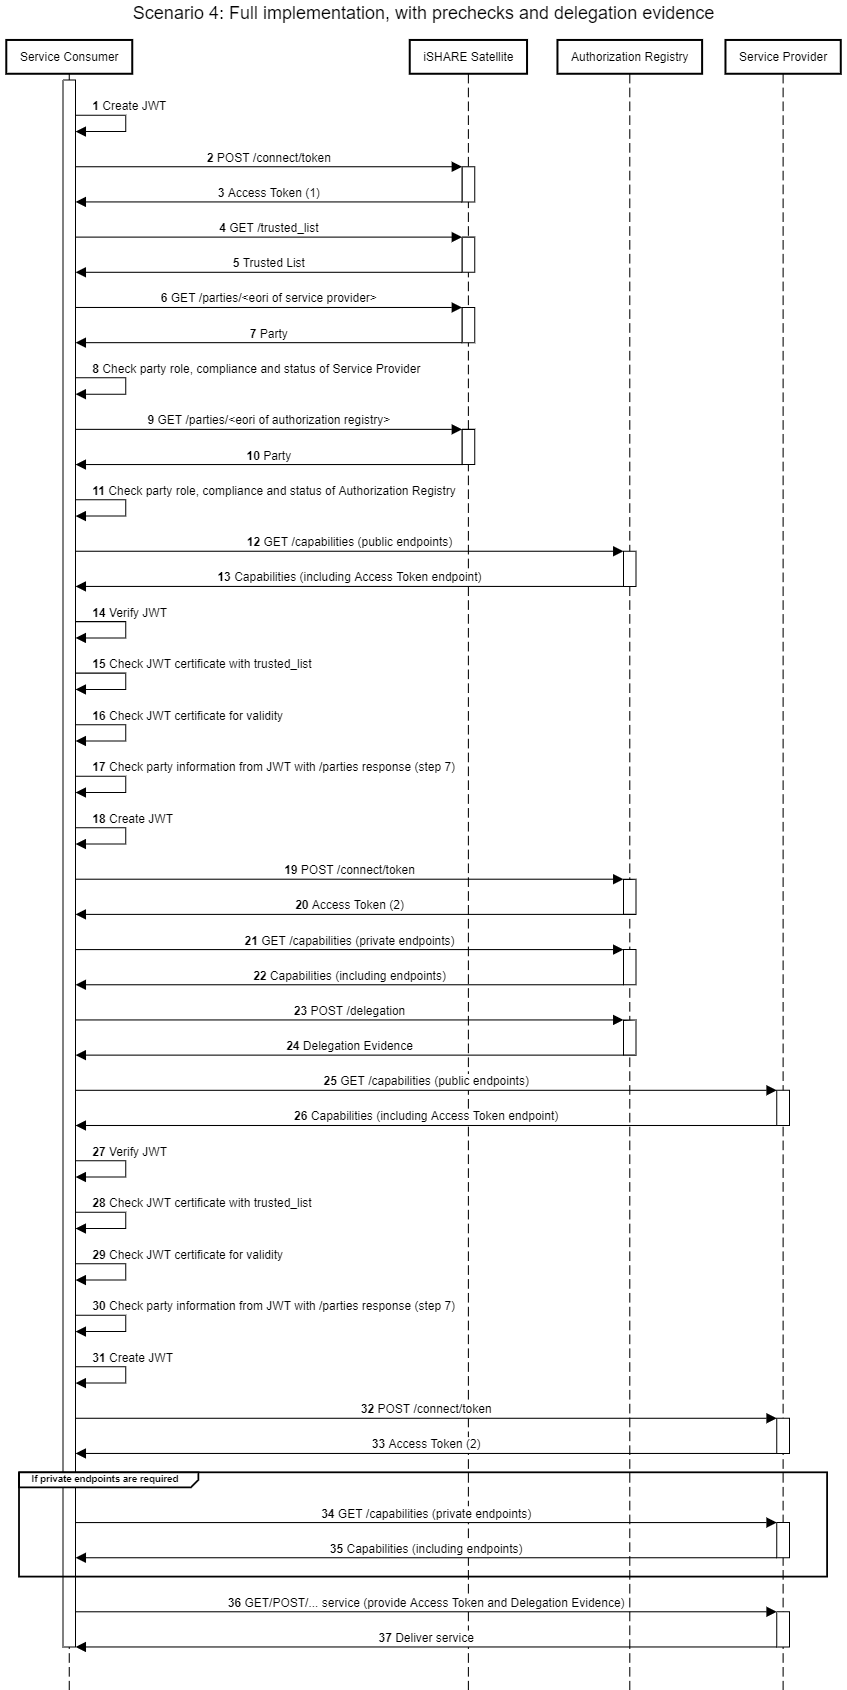
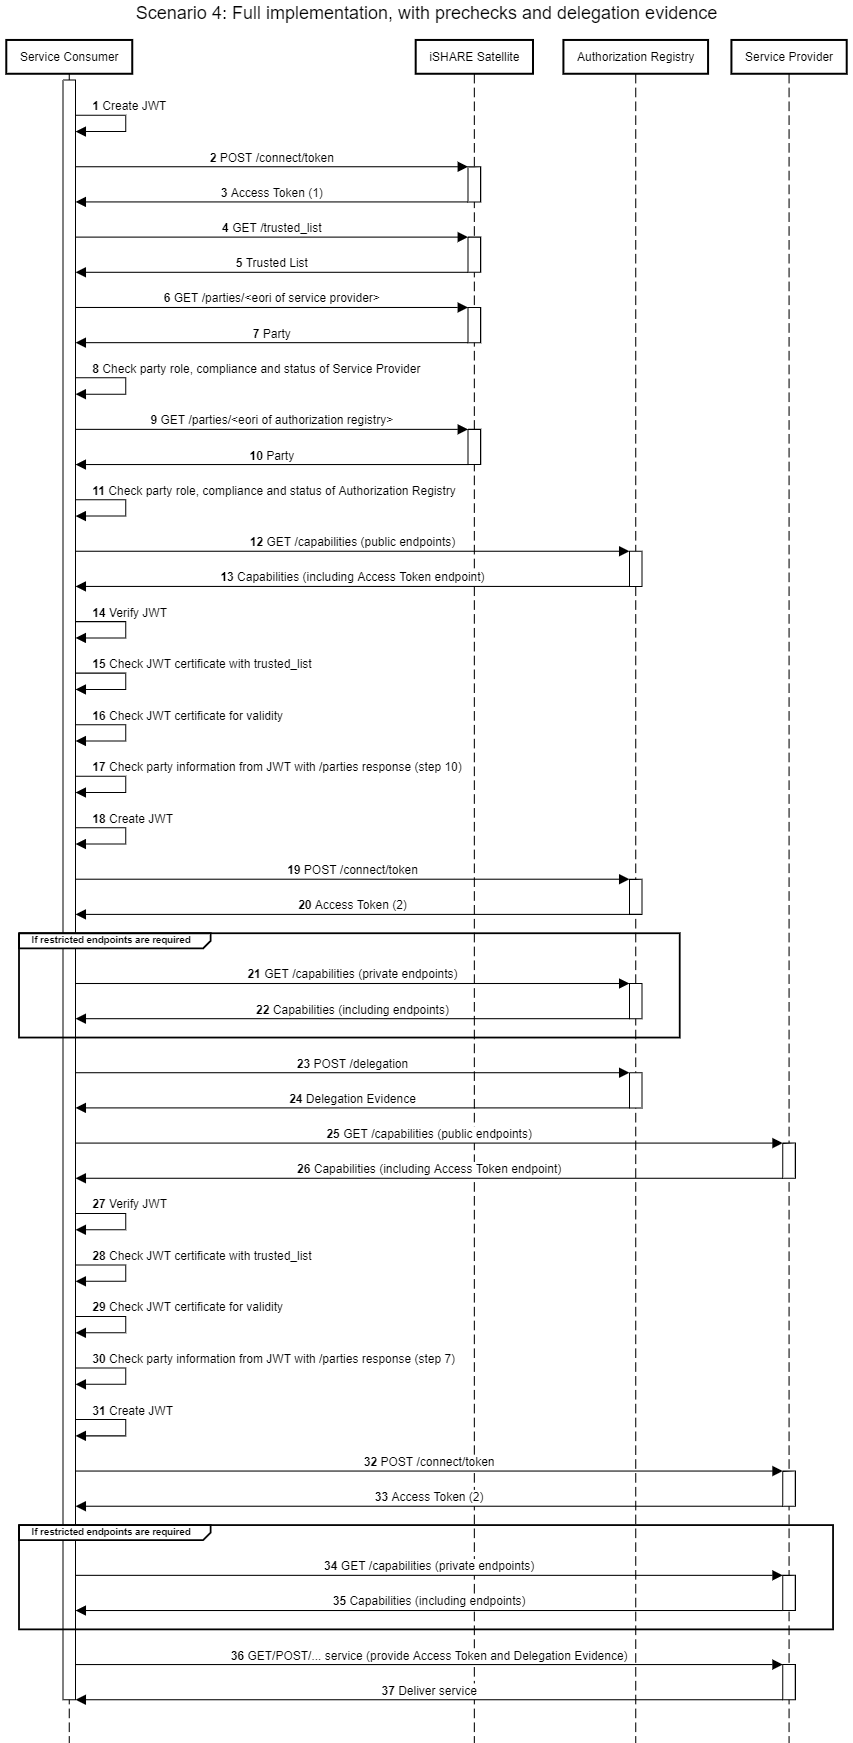
Fixed comments in PR - clarified restricted endpoints vs private endpoints

diff --git a/common/capabilities.rst b/common/capabilities.rst
@@ -3,9 +3,24 @@
 Capabilities
 ============
 
-The ``/capabilities`` endpoint is required for every participant that provides services. The endpoint returns iSHARE capabilities (supported versions & optional features) of the iSHARE party. Server response is an iSHARE signed JSON Web Token.
+The ``/capabilities`` endpoint is required for every participant that provides services:
 
-The capabilities endpoint should only return the public endpoints if no access token is provided. If an access token is provided, the capabilities endpoint will also provide the restricted endpoints. A party may also have *private* endpoints, which are endpoints for their own internal organization, also known as endpoints that are implemented, but not to share with the others. These endpoints are not within the scope of iSHARE and should not be returned to other iSHARE parties.
+* iSHARE Satellite
+* Authorisation Registry
+* Service Provider
+* Identity Provider
+
+The endpoint returns iSHARE capabilities of the iSHARE party. The server response is an iSHARE signed JSON Web Token.
+
+Depening on whether or not an Access Token is provided to the capabilities endpoint, the endpoint must return public or public and restricted endpoints. in detail:
+
+* If an access token IS NOT provided
+    * Return public endpoints, including the Access Token endpoint
+* If an access token IS provided
+    * Return public endpoints, including the Access Token endpoint
+    * Return restricted endpoints
+
+Any endpoints that are not intended to be part of the capabilities to be used by iSHARE roles (out of scope of iSHARE) must not be included in the capabilities endpoint return.
 
 Request
 -------
